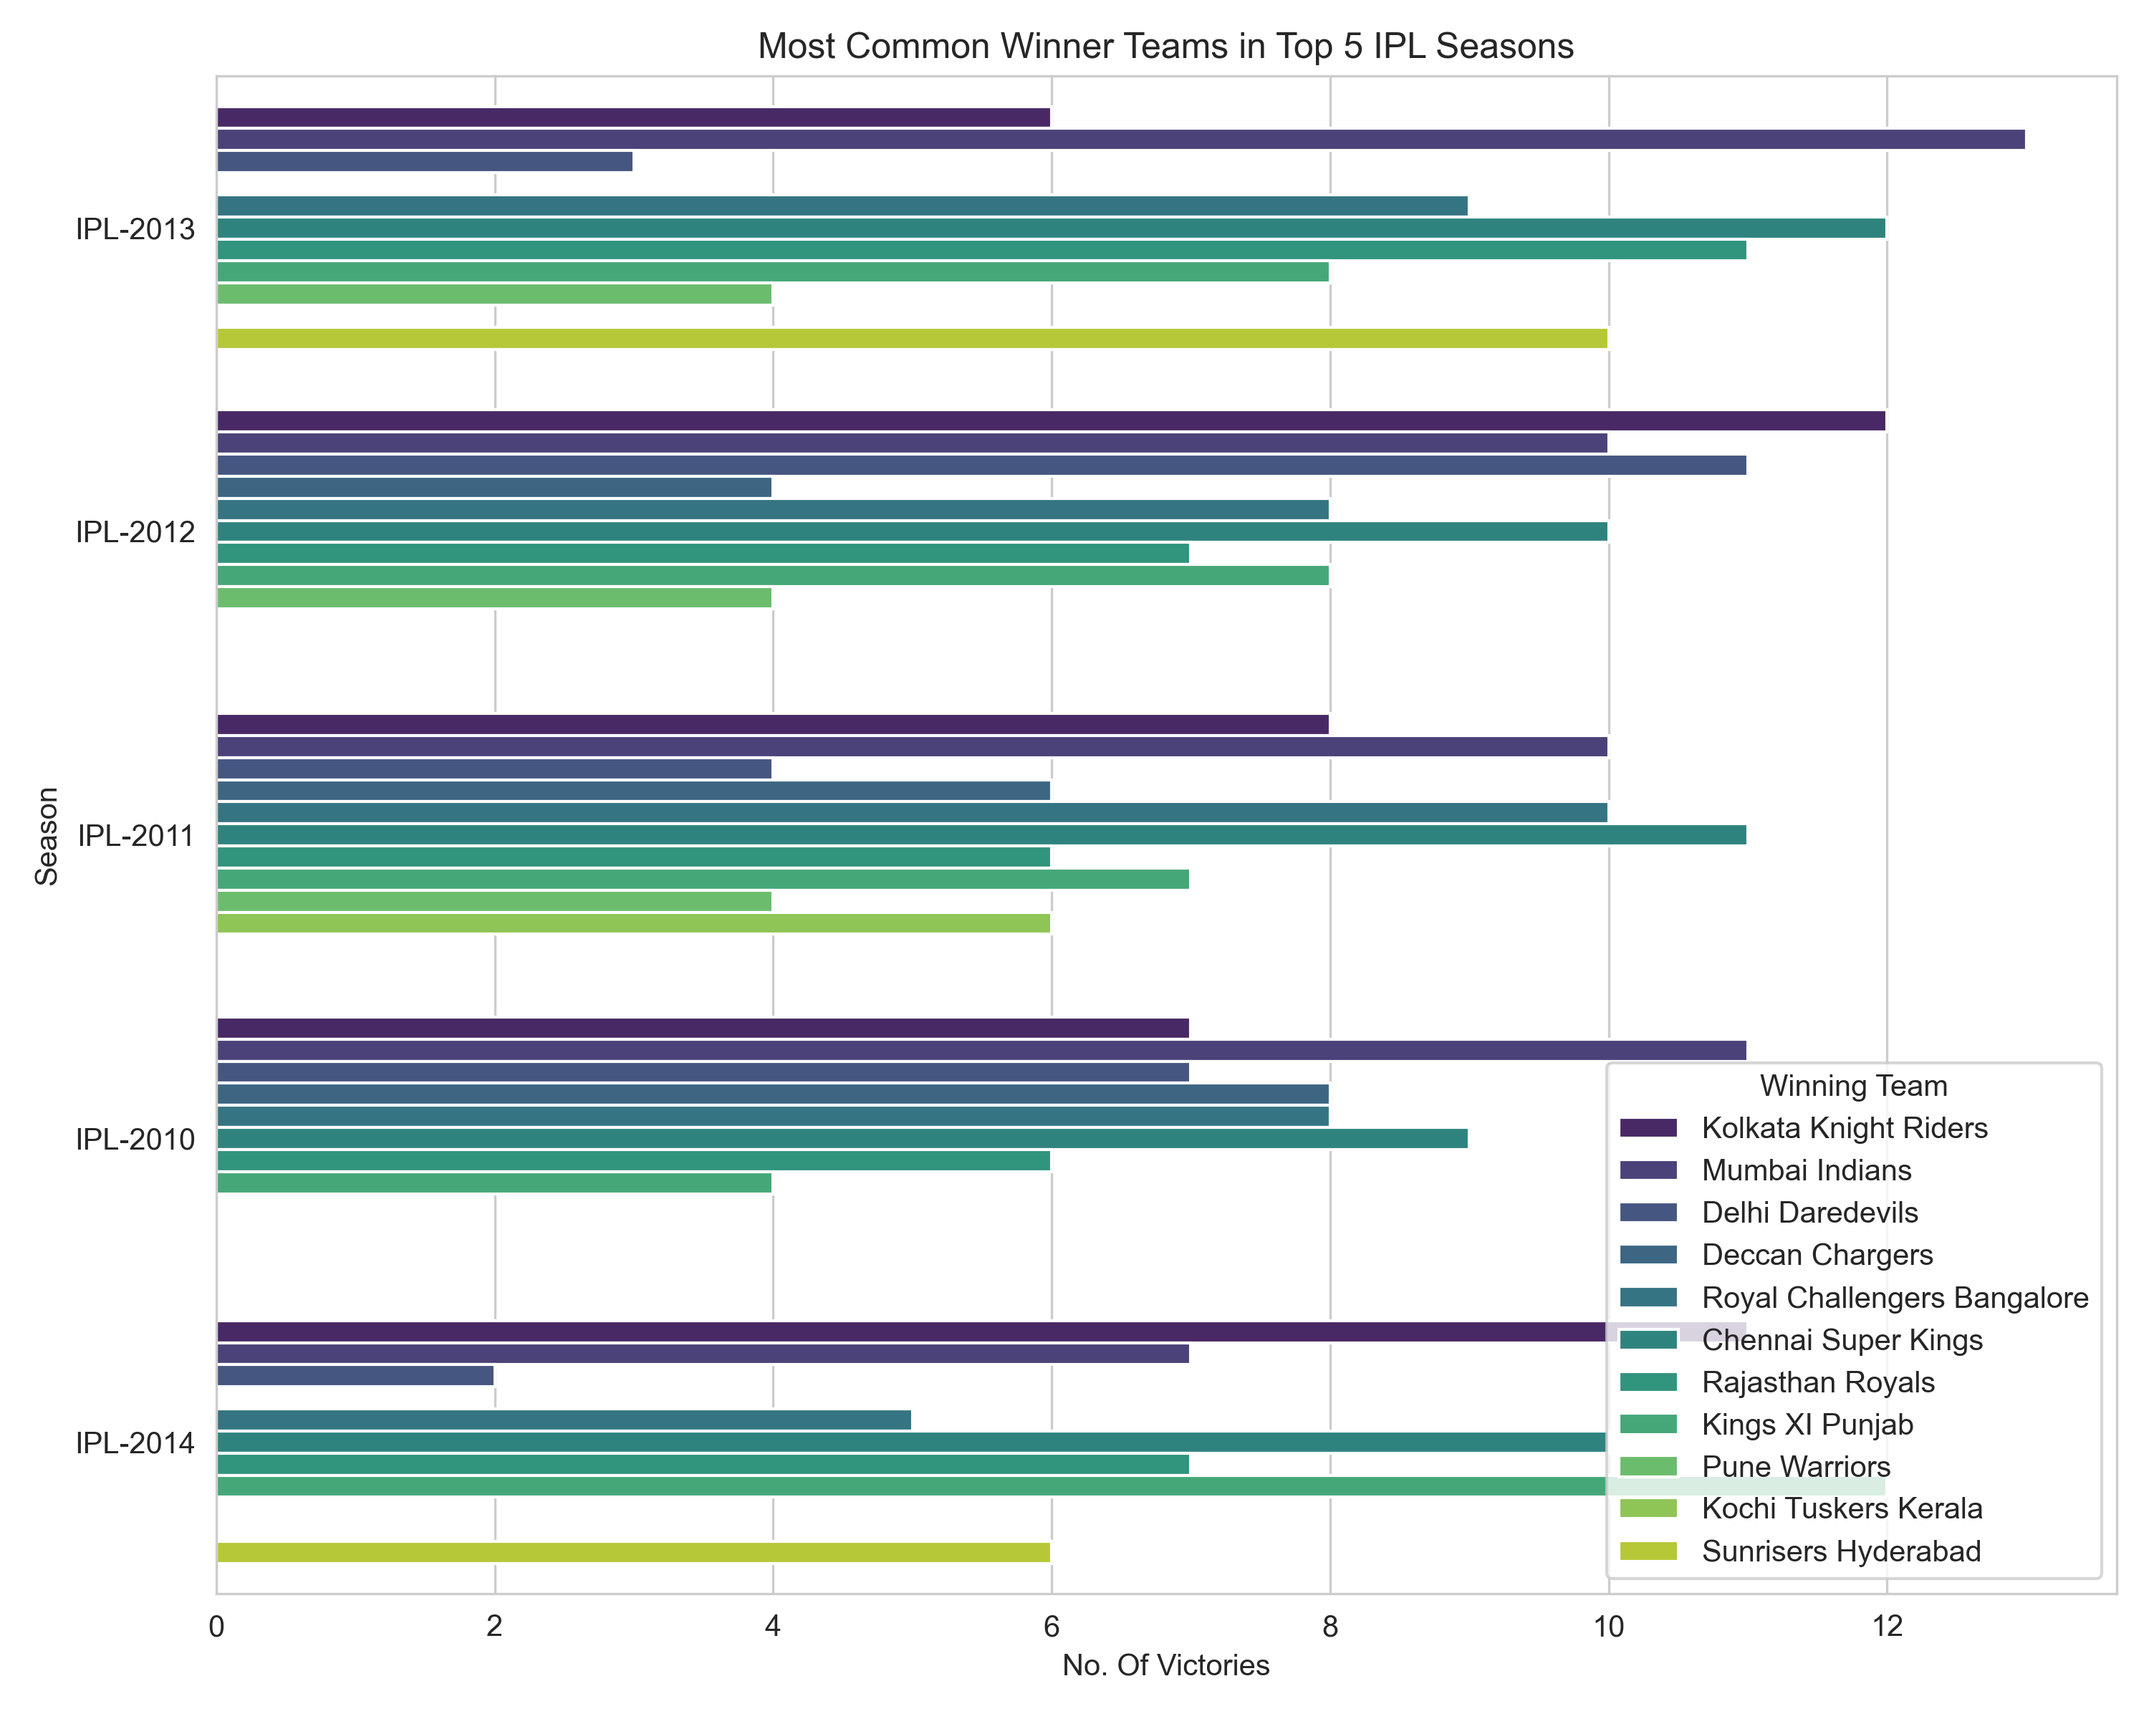
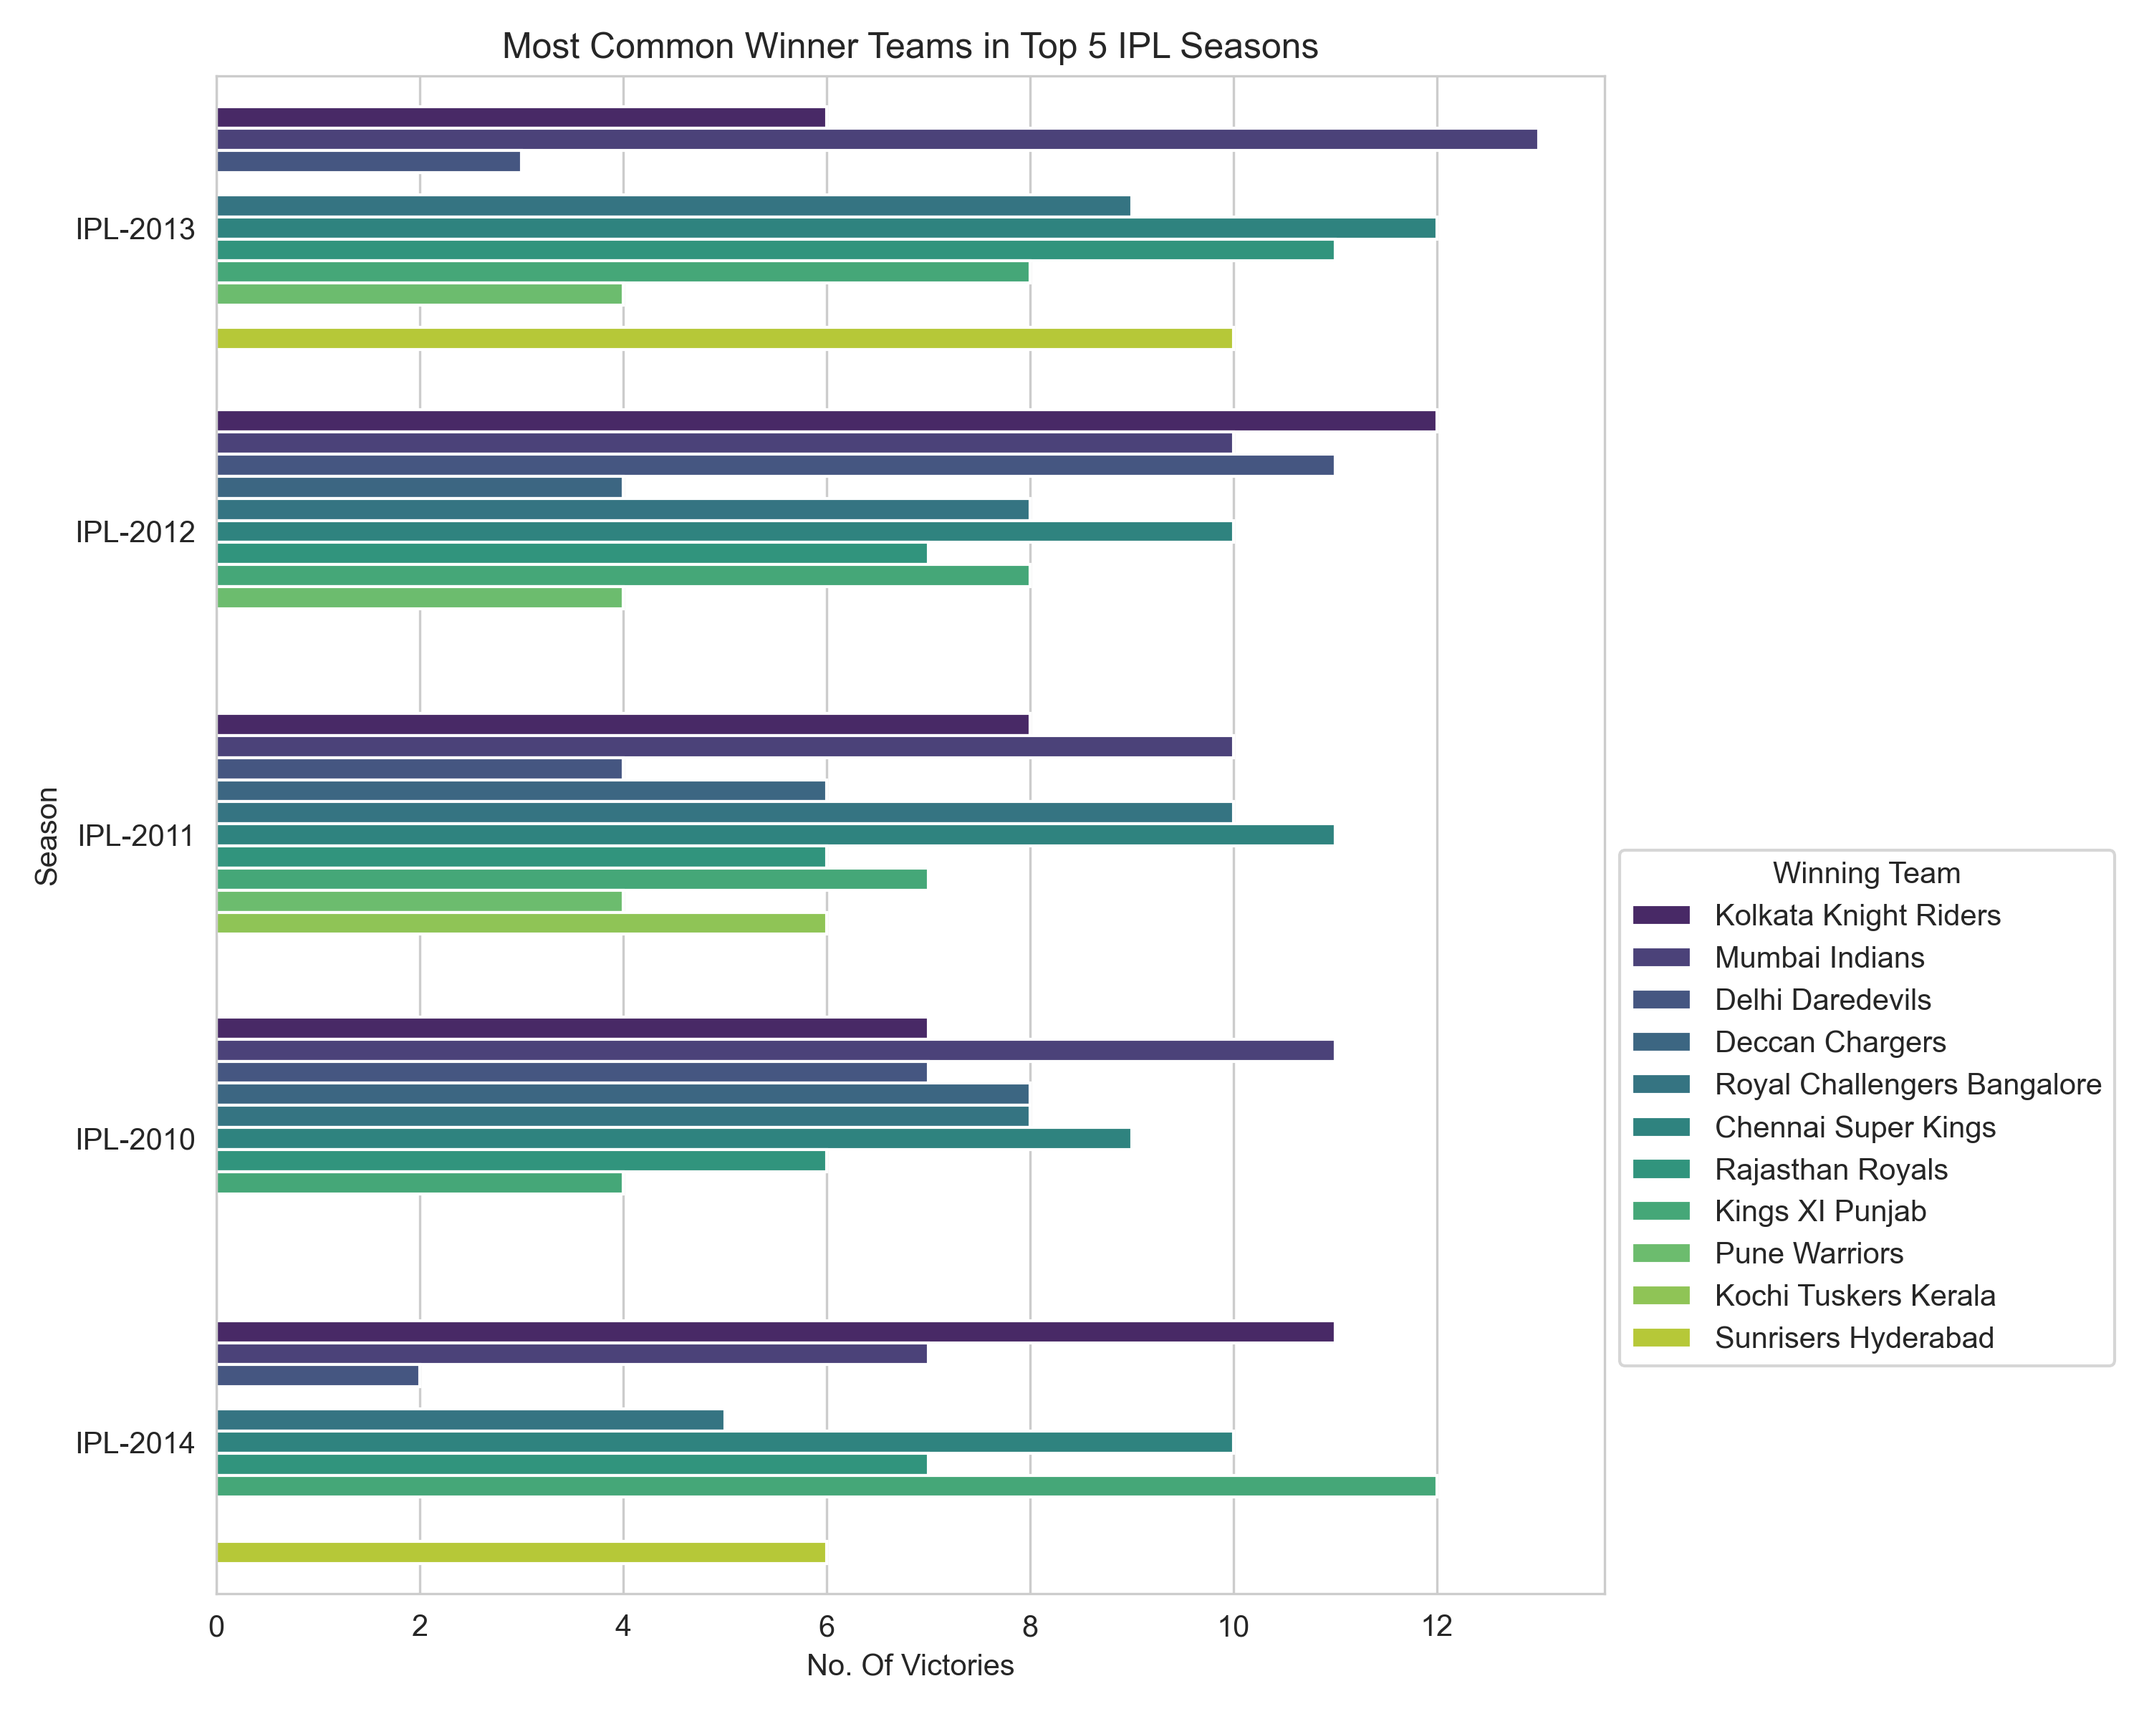
Final Adjustments

diff --git a/Data-Analysis.py b/Data-Analysis.py
@@ -187,7 +187,7 @@ def Comparative_Analysis():
     sns.countplot(data=file2[file2["Season"].isin(top5)],y="Season",hue="winner",order=top5,palette="viridis")
     plt.title("Most Common Winner Teams in Top 5 IPL Seasons")
     plt.xlabel("No. Of Victories")
-    plt.legend(title="Winning Team")
+    plt.legend(bbox_to_anchor=(1,0.5),title="Winning Team",loc="upper left")
     plt.tight_layout()
     plt.savefig(os.path.join(save,"Season-Winner_Team.png"),dpi=300)
     plt.show()
